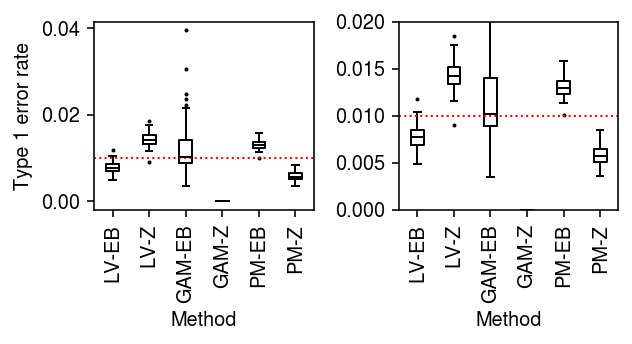
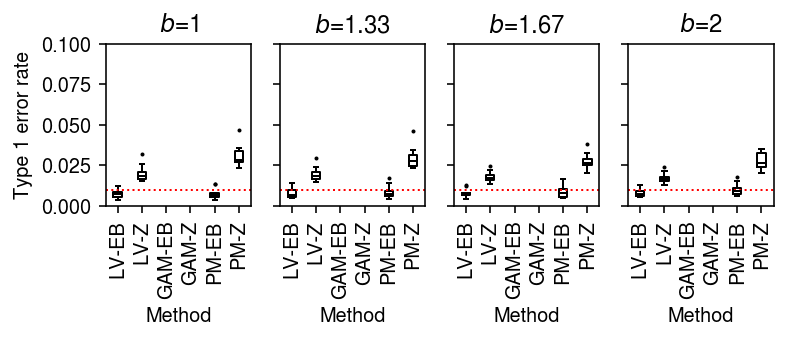
Look at anticonservative behavior of z-test

Changed region(s): [[0.0, 0.0294, 0.9921, 0.9706], [0.6013, 0.9118, 0.7215, 0.9706], [0.6313, 0.2647, 0.6614, 0.2941]]

diff --git a/docs/voom.html b/docs/voom.html
@@ -1,7 +1,7 @@
 <!DOCTYPE html>
 <html lang="en">
 <head>
-<!-- 2020-06-26 Fri 17:01 -->
+<!-- 2020-06-27 Sat 03:45 -->
 <meta charset="utf-8">
 <meta name="viewport" content="width=device-width, initial-scale=1">
 <title>An improved voom transform for scRNA-seq data</title>
@@ -925,7 +925,7 @@ Implement a simplified
 <span class="org-doc">  """</span>
   <span class="org-variable-name">result</span> = []
   <span class="org-keyword">for</span> i <span class="org-keyword">in</span> <span class="org-builtin">range</span>(n_trials):
-    <span class="org-variable-name">x</span>, <span class="org-variable-name">onehot</span>, <span class="org-variable-name">design</span>, <span class="org-variable-name">b</span> = simulate_study(dat, g, b=b, n_donors=1, n_cells=n_cells, min_cells=min_cells, seed=i)
+    <span class="org-variable-name">x</span>, <span class="org-variable-name">onehot</span>, <span class="org-variable-name">design</span>, <span class="org-variable-name">lfc</span> = simulate_study(dat, g, b=b, n_donors=1, n_cells=n_cells, min_cells=min_cells, seed=i)
     <span class="org-keyword">if</span> ss.isspmatrix(x.X):
       <span class="org-variable-name">x</span> = x.X.A
     <span class="org-keyword">else</span>:
@@ -939,14 +939,14 @@ Implement a simplified
       <span class="org-variable-name">fit</span> = limma.eBayes(fit)
       <span class="org-keyword">for</span> fdr_method <span class="org-keyword">in</span> (<span class="org-string">'fdr_bh'</span>, <span class="org-string">'lfsr'</span>):
         <span class="org-variable-name">score</span> = <span class="org-builtin">globals</span>()[f<span class="org-string">'estimate_{fdr_method}'</span>](fit)
-        <span class="org-variable-name">fdp</span> = ((score &lt; fdr) &amp; np.isclose(b, 0)).mean()
-        <span class="org-variable-name">power</span> = (score[~np.isclose(b, 0)] &lt; fdr).mean()
+        <span class="org-variable-name">fdp</span> = ((score &lt; fdr) &amp; np.isclose(lfc, 0)).mean()
+        <span class="org-variable-name">power</span> = (score[~np.isclose(lfc, 0)] &lt; fdr).mean()
         result.append((fdr, n_cells, method, fdr_method, i, fdp, power))
     <span class="org-keyword">for</span> method <span class="org-keyword">in</span> (<span class="org-string">'point'</span>,):
       <span class="org-variable-name">fit</span> = <span class="org-builtin">globals</span>()[f<span class="org-string">'estimate_{method}'</span>](x, onehot, design=design, batch_size=64, num_epochs=num_epochs)
       <span class="org-variable-name">score</span> = rpy2.robjects.r[<span class="org-string">'p.adjust'</span>](fit[<span class="org-string">'p'</span>], method=<span class="org-string">'BH'</span>)
-      <span class="org-variable-name">fdp</span> = ((score &lt; fdr) &amp; np.isclose(b, 0)).mean()
-      <span class="org-variable-name">power</span> = (score[~np.isclose(b, 0)] &lt; fdr).mean()
+      <span class="org-variable-name">fdp</span> = ((score &lt; fdr) &amp; np.isclose(lfc, 0)).mean()
+      <span class="org-variable-name">power</span> = (score[~np.isclose(lfc, 0)] &lt; fdr).mean()
       result.append((fdr, n_cells, method, <span class="org-string">'fdr_bh'</span>, i, fdp, power))
   <span class="org-variable-name">result</span> = pd.DataFrame(result, columns=[<span class="org-string">'fdr'</span>, <span class="org-string">'n_cells'</span>, <span class="org-string">'method'</span>, <span class="org-string">'fdr_method'</span>, <span class="org-string">'trial'</span>, <span class="org-string">'fdp'</span>, <span class="org-string">'power'</span>])
   <span class="org-keyword">return</span> result
@@ -968,7 +968,7 @@ Implement a simplified
   <span class="org-keyword">assert</span> n_donors &gt; 1
   <span class="org-variable-name">result</span> = []
   <span class="org-keyword">for</span> i <span class="org-keyword">in</span> <span class="org-builtin">range</span>(n_trials):
-    <span class="org-variable-name">x</span>, <span class="org-variable-name">onehot</span>, <span class="org-variable-name">design</span>, <span class="org-variable-name">b</span> = simulate_study(dat, g, b=b, n_donors=n_donors, n_cells=n_cells, min_cells=min_cells, seed=i)
+    <span class="org-variable-name">x</span>, <span class="org-variable-name">onehot</span>, <span class="org-variable-name">design</span>, <span class="org-variable-name">lfc</span> = simulate_study(dat, g, b=b, n_donors=n_donors, n_cells=n_cells, min_cells=min_cells, seed=i)
     <span class="org-keyword">if</span> ss.isspmatrix(x.X):
       <span class="org-variable-name">x</span> = x.X.A
     <span class="org-keyword">else</span>:
@@ -982,11 +982,23 @@ Implement a simplified
       <span class="org-variable-name">fit</span> = limma.eBayes(fit)
       <span class="org-keyword">for</span> fdr_method <span class="org-keyword">in</span> (<span class="org-string">'fdr_bh'</span>, <span class="org-string">'lfsr'</span>):
         <span class="org-variable-name">score</span> = <span class="org-builtin">globals</span>()[f<span class="org-string">'estimate_{fdr_method}'</span>](fit)
-        <span class="org-variable-name">fdp</span> = ((score &lt; fdr) &amp; np.isclose(b, 0)).mean()
-        <span class="org-variable-name">power</span> = (score[~np.isclose(b, 0)] &lt; fdr).mean()
+        <span class="org-variable-name">fdp</span> = ((score &lt; fdr) &amp; np.isclose(lfc, 0)).mean()
+        <span class="org-variable-name">power</span> = (score[~np.isclose(lfc, 0)] &lt; fdr).mean()
         result.append((fdr, n_donors, n_cells, method, fdr_method, i, fdp, power))
   <span class="org-variable-name">result</span> = pd.DataFrame(result, columns=[<span class="org-string">'fdr'</span>, <span class="org-string">'n_donors'</span>, <span class="org-string">'n_cells'</span>, <span class="org-string">'method'</span>, <span class="org-string">'fdr_method'</span>, <span class="org-string">'trial'</span>, <span class="org-string">'fdp'</span>, <span class="org-string">'power'</span>])
   <span class="org-keyword">return</span> result
+</pre>
+</div>
+
+<p>
+To generate null data, randomly sample cells from a homogeneous population,
+and randomly assign labels. Use
+<a href="https://support.10xgenomics.com/single-cell-gene-expression/datasets/3.0.0/pbmc_10k_v3">10X
+v3 PBMC data</a>, which has more molecules observed per sample on average.
+</p>
+
+<div class="org-src-container">
+<pre class="src src-ipython"><span class="org-variable-name">dat</span> = anndata.read_h5ad(<span class="org-string">'/scratch/midway2/aksarkar/modes/10k_pbmc_v3.h5ad'</span>)
 </pre>
 </div>
 </div>
@@ -1331,16 +1343,8 @@ As a sanity check, use bulk RNA-seq data from GTEx v6 lung.
 <h3 id="org05839be">Type 1 error rate (single cells as units)</h3>
 <div class="outline-text-3" id="text-org05839be">
 <p>
-To generate null data, randomly sample cells from a homogeneous population,
-and randomly assign labels. Use
-<a href="https://support.10xgenomics.com/single-cell-gene-expression/datasets/3.0.0/pbmc_10k_v3">10X
-v3 PBMC data</a>, which has more molecules observed per sample on average.
+Simulate null data, varying the number of cells per group.
 </p>
-
-<div class="org-src-container">
-<pre class="src src-ipython"><span class="org-variable-name">dat</span> = anndata.read_h5ad(<span class="org-string">'/scratch/midway2/aksarkar/modes/10k_pbmc_v3.h5ad'</span>)
-</pre>
-</div>
 
 <div class="org-src-container">
 <pre class="src src-ipython"><span class="org-variable-name">result</span> = pd.concat(
@@ -1348,6 +1352,10 @@ v3 PBMC data</a>, which has more molecules observed per sample on average.
   <span class="org-keyword">for</span> n_cells <span class="org-keyword">in</span> (10, 100, 1000))
 </pre>
 </div>
+
+<p>
+Plot the distribution of Type 1 errors in each trial.
+</p>
 
 <div class="org-src-container">
 <pre class="src src-ipython">plt.clf()
@@ -1443,9 +1451,9 @@ fig.tight_layout()
 </div>
 </div>
 
-<div id="outline-container-orga33496c" class="outline-4">
-<h4 id="orga33496c">Unequal size factors</h4>
-<div class="outline-text-4" id="text-orga33496c">
+<div id="outline-container-org4cbfade" class="outline-4">
+<h4 id="org4cbfade">Unequal size factors</h4>
+<div class="outline-text-4" id="text-org4cbfade">
 <p>
 To generate single cells with unequal size factors, combine simulated
 doublets from sorted cells in one group.
@@ -1624,19 +1632,31 @@ plt.tight_layout()
 </div>
 </div>
 
-<div id="outline-container-orgd147d31" class="outline-4">
-<h4 id="orgd147d31">Pathological example</h4>
-<div class="outline-text-4" id="text-orgd147d31">
+<div id="outline-container-orgd9329ed" class="outline-4">
+<h4 id="orgd9329ed">Anti-conservative \(z\)-test</h4>
+<div class="outline-text-4" id="text-orgd9329ed">
 <div class="org-src-container">
-<pre class="src src-ipython"><span class="org-variable-name">x</span>, <span class="org-variable-name">onehot</span> = simulate_null(dat, n_donors=2, n_cells=400, min_counts=30, seed=2)
-<span class="org-variable-name">fit</span> = estimate_point(x.A, onehot.A)
+<pre class="src src-ipython"><span class="org-variable-name">x</span>, <span class="org-variable-name">onehot</span> = simulate_null(dat, n_donors=1, n_cells=100, min_cells=100, seed=3)
+<span class="org-variable-name">y</span> = x.X.A.copy()
+<span class="org-comment-delimiter"># </span><span class="org-comment">for j in range(y.shape[1]):</span>
+<span class="org-comment-delimiter">#   </span><span class="org-comment">temp = y[:,j].copy()</span>
+<span class="org-comment-delimiter">#   </span><span class="org-comment">np.random.shuffle(temp)</span>
+<span class="org-comment-delimiter">#   </span><span class="org-comment">y[:,j] = temp</span>
+<span class="org-variable-name">theta</span> = np.log(onehot.T @ y) - np.log(onehot.T @ y.<span class="org-builtin">sum</span>(axis=1, keepdims=<span class="org-constant">True</span>))
+<span class="org-variable-name">bhat</span> = theta[0] - theta[1]
+<span class="org-variable-name">V</span> = 1 / (onehot.T @ y)
+<span class="org-variable-name">se</span> = np.sqrt(V.<span class="org-builtin">sum</span>(axis=0))
+<span class="org-variable-name">z</span> = bhat / se
+<span class="org-variable-name">p</span> = st.norm().sf(<span class="org-builtin">abs</span>(z))
 </pre>
 </div>
 
 <div class="org-src-container">
-<pre class="src src-ipython">plt.clf()
+<pre class="src src-ipython"><span class="org-variable-name">grid</span> = np.linspace(-5, 5, 1000)
+plt.clf()
 plt.gcf().set_size_inches(3, 3)
-plt.hist(fit[<span class="org-string">'bhat'</span>] / fit[<span class="org-string">'se'</span>], bins=20, density=<span class="org-constant">True</span>, color=<span class="org-string">'0.7'</span>)
+plt.hist(bhat / se, bins=21, density=<span class="org-constant">True</span>, color=<span class="org-string">'0.7'</span>)
+plt.plot(grid, st.norm().pdf(grid), lw=1, c=<span class="org-string">'k'</span>)
 plt.xlabel(<span class="org-string">'$z$-score'</span>)
 plt.ylabel(<span class="org-string">'Density'</span>)
 plt.tight_layout()
@@ -1656,7 +1676,7 @@ plt.clf()
 plt.gcf().set_size_inches(3, 3)
 plt.xscale(<span class="org-string">'log'</span>)
 plt.yscale(<span class="org-string">'log'</span>)
-<span class="org-keyword">for</span> i, (F, label) <span class="org-keyword">in</span> <span class="org-builtin">enumerate</span>(<span class="org-builtin">zip</span>([st.norm(), st.t(1, scale=0.1)], [<span class="org-string">'N(0, 1)'</span>, <span class="org-string">'$t_4$'</span>])):
+<span class="org-keyword">for</span> i, (F, label) <span class="org-keyword">in</span> <span class="org-builtin">enumerate</span>(<span class="org-builtin">zip</span>([st.norm()], [<span class="org-string">'N(0, 1)'</span>])):
   plt.plot(np.linspace(0, 1, fit.shape[0] + 1)[1:], np.sort(F.cdf(fit[<span class="org-string">'bhat'</span>] / fit[<span class="org-string">'se'</span>])), lw=1, c=cm(i), label=label)
 plt.plot(lim, lim, lw=1, ls=<span class="org-string">':'</span>, c=<span class="org-string">'k'</span>)
 plt.xlim(lim)
@@ -1671,6 +1691,53 @@ plt.tight_layout()
 
 <div class="figure">
 <p><img src="figure/voom.org/point-example.png" alt="point-example.png">
+</p>
+</div>
+
+<p>
+Check whether the SE is calibrated.
+</p>
+
+<div class="org-src-container">
+<pre class="src src-ipython"><span class="org-variable-name">n_trials</span> = 50
+<span class="org-variable-name">n_bootstraps</span> = 400
+<span class="org-variable-name">n_cells</span> = 100
+<span class="org-variable-name">s</span> = 1e4
+<span class="org-variable-name">result</span> = []
+<span class="org-keyword">for</span> trial <span class="org-keyword">in</span> <span class="org-builtin">range</span>(n_trials):
+  <span class="org-keyword">for</span> theta <span class="org-keyword">in</span> np.arange(-12, -2, 1):
+    <span class="org-variable-name">x</span> = st.poisson(s * np.exp(theta)).rvs(size=n_cells)
+    <span class="org-variable-name">thetahat</span> = np.log(x.<span class="org-builtin">sum</span>()) - np.log(n_cells * s)
+    <span class="org-variable-name">se</span> = np.sqrt(1 / x.<span class="org-builtin">sum</span>())
+    <span class="org-variable-name">bootstraps</span> = []
+    <span class="org-keyword">for</span> b <span class="org-keyword">in</span> <span class="org-builtin">range</span>(n_bootstraps):
+      <span class="org-variable-name">x</span> = st.poisson(s * np.exp(theta)).rvs(size=n_cells)
+      bootstraps.append(np.log(x.<span class="org-builtin">sum</span>()) - np.log(n_cells * s))
+    <span class="org-variable-name">se_b</span> = np.array(bootstraps).std()
+    result.append([theta, trial, thetahat, se, se_b])
+<span class="org-variable-name">result</span> = pd.DataFrame(result, columns=[<span class="org-string">'theta'</span>, <span class="org-string">'trial'</span>, <span class="org-string">'thetahat'</span>, <span class="org-string">'se'</span>, <span class="org-string">'se_b'</span>])
+</pre>
+</div>
+
+<div class="org-src-container">
+<pre class="src src-ipython">plt.clf()
+plt.gcf().set_size_inches(2.5, 2.5)
+plt.xscale(<span class="org-string">'log'</span>)
+plt.yscale(<span class="org-string">'log'</span>)
+plt.scatter(result[<span class="org-string">'se'</span>], result[<span class="org-string">'se_b'</span>], s=1, c=<span class="org-string">'k'</span>)
+<span class="org-variable-name">lim</span> = [1e-3, 1.5]
+plt.plot(lim, lim, lw=1, ls=<span class="org-string">':'</span>, c=<span class="org-string">'r'</span>)
+plt.xlim(lim)
+plt.ylim(lim)
+plt.xlabel(<span class="org-string">'Analytic SE'</span>)
+plt.ylabel(<span class="org-string">'Bootstrap SE'</span>)
+plt.tight_layout()
+</pre>
+</div>
+
+
+<div class="figure">
+<p><img src="figure/voom.org/se.png" alt="se.png">
 </p>
 </div>
 </div>
@@ -1728,31 +1795,25 @@ to donors, then randomly assign donors to groups.
 </p>
 
 <div class="org-src-container">
-<pre class="src src-ipython"><span class="org-variable-name">dat</span> = anndata.read_h5ad(<span class="org-string">'/scratch/midway2/aksarkar/ideas/zheng-10-way.h5ad'</span>)
-<span class="org-variable-name">b_cells</span> = dat[dat.obs[<span class="org-string">'cell_type'</span>] == <span class="org-string">'b_cells'</span>]
-</pre>
-</div>
-
-<div class="org-src-container">
-<pre class="src src-ipython"><span class="org-variable-name">result</span> = evaluate_type1_by_donor(b_cells, min_counts=10, n_trials=50)
+<pre class="src src-ipython"><span class="org-variable-name">result</span> = pd.concat(
+  evaluate_type1_by_donor(dat, b=b, n_donors=4, n_cells=100, min_cells=100, n_trials=10)
+  <span class="org-keyword">for</span> b <span class="org-keyword">in</span> np.log(np.linspace(1, 2, 4)))
 </pre>
 </div>
 
 <div class="org-src-container">
 <pre class="src src-ipython">plt.clf()
-<span class="org-variable-name">fig</span>, <span class="org-variable-name">ax</span> = plt.subplots(1, 2)
-fig.set_size_inches(4.5, 2.5)
+<span class="org-variable-name">fig</span>, <span class="org-variable-name">ax</span> = plt.subplots(1, 4, sharey=<span class="org-constant">True</span>)
+fig.set_size_inches(5.5, 2.5)
 <span class="org-variable-name">labels</span> = [<span class="org-string">'LV-EB'</span>, <span class="org-string">'LV-Z'</span>, <span class="org-string">'GAM-EB'</span>, <span class="org-string">'GAM-Z'</span>, <span class="org-string">'PM-EB'</span>, <span class="org-string">'PM-Z'</span>]
-<span class="org-keyword">for</span> i, (k, g) <span class="org-keyword">in</span> <span class="org-builtin">enumerate</span>(result.groupby([<span class="org-string">'method'</span>, <span class="org-string">'test'</span>])):
-  ax[0].boxplot(g[<span class="org-string">'fpr'</span>], positions=[i], widths=0.35, medianprops={<span class="org-string">'color'</span>: <span class="org-string">'k'</span>}, flierprops={<span class="org-string">'marker'</span>: <span class="org-string">'.'</span>, <span class="org-string">'markersize'</span>: 2})
-  ax[1].boxplot(g[<span class="org-string">'fpr'</span>], positions=[i], widths=0.35, medianprops={<span class="org-string">'color'</span>: <span class="org-string">'k'</span>}, flierprops={<span class="org-string">'marker'</span>: <span class="org-string">'.'</span>, <span class="org-string">'markersize'</span>: 2})
-ax[1].set_ylim(0, 0.02)
-<span class="org-keyword">for</span> a <span class="org-keyword">in</span> ax:
+<span class="org-keyword">for</span> a, (k, g) <span class="org-keyword">in</span> <span class="org-builtin">zip</span>(ax, result.groupby(<span class="org-string">'b'</span>)):
+  a.boxplot(g.pivot_table(index=[<span class="org-string">'method'</span>, <span class="org-string">'test'</span>], columns=<span class="org-string">'trial'</span>, values=<span class="org-string">'fdp'</span>), widths=0.35, medianprops={<span class="org-string">'color'</span>: <span class="org-string">'k'</span>}, flierprops={<span class="org-string">'marker'</span>: <span class="org-string">'.'</span>, <span class="org-string">'markersize'</span>: 2})
   a.axhline(y=0.01, c=<span class="org-string">'r'</span>, lw=1, ls=<span class="org-string">':'</span>)
-  a.set_xticks(<span class="org-builtin">range</span>(<span class="org-builtin">len</span>(labels)))
   a.set_xticklabels(labels, rotation=90)
+  a.set_title(f<span class="org-string">'$b$={np.exp(k):.3g}'</span>)
   a.set_xlabel(<span class="org-string">'Method'</span>)
 ax[0].set_ylabel(<span class="org-string">'Type 1 error rate'</span>)
+ax[0].set_ylim(0, 0.1)
 fig.tight_layout()
 </pre>
 </div>
@@ -1764,9 +1825,9 @@ fig.tight_layout()
 </div>
 </div>
 
-<div id="outline-container-org4cbfade" class="outline-4">
-<h4 id="org4cbfade">Unequal size factors</h4>
-<div class="outline-text-4" id="text-org4cbfade">
+<div id="outline-container-org726dc6f" class="outline-4">
+<h4 id="org726dc6f">Unequal size factors</h4>
+<div class="outline-text-4" id="text-org726dc6f">
 <p>
 Generate null data with different size factors by assigning different
 numbers of cells to different donors.
@@ -1851,31 +1912,29 @@ plt.tight_layout()
 <p>
 To generate true positives treating donors as units, randomly sample cells
 from a homogeneous population, randomly assign cells to donors, randomly
-assign donors to groups, and then thin all cells assigned to the effect
-group equally.
+assign donors to groups, and then thin effect genes.
 </p>
 
 <div class="org-src-container">
-<pre class="src src-ipython"><span class="org-variable-name">result</span> = []
-<span class="org-keyword">for</span> b <span class="org-keyword">in</span> -np.log(np.linspace(1, 2, 20)):
-  result.append(evaluate_power_by_donor(b_cells, b=b, n_donors=64, n_cells=50, alpha=0.01, n_trials=1))
-<span class="org-variable-name">result</span> = pd.concat(result)
-result.to_csv(<span class="org-string">'/scratch/midway2/aksarkar/singlecell/limma-voom-power-by-donor-40.txt.gz'</span>)
+<pre class="src src-ipython"><span class="org-variable-name">result</span> = pd.concat(
+  evaluate_power_by_donor(dat, g=st.t(scale=0.1, df=1).rvs, n_donors=n_donors, n_cells=50, n_trials=10)
+  <span class="org-keyword">for</span> n_donors <span class="org-keyword">in</span> (4, 16, 64))
 </pre>
 </div>
 
 <div class="org-src-container">
 <pre class="src src-ipython"><span class="org-variable-name">cm</span> = plt.get_cmap(<span class="org-string">'Paired'</span>)
 plt.clf()
-plt.gcf().set_size_inches(3.5, 2.5)
+<span class="org-variable-name">fig</span>, <span class="org-variable-name">ax</span> = plt.subplots(1, 3, sharey=<span class="org-constant">True</span>)
+fig.set_size_inches(5, 2.5)
 <span class="org-variable-name">labels</span> = [<span class="org-string">'LV-EB'</span>, <span class="org-string">'LV-Z'</span>, <span class="org-string">'GAM-EB'</span>, <span class="org-string">'GAM-Z'</span>, <span class="org-string">'PM-EB'</span>, <span class="org-string">'PM-Z'</span>]
-<span class="org-keyword">for</span> i, (k, g) <span class="org-keyword">in</span> <span class="org-builtin">enumerate</span>(result.groupby([<span class="org-string">'method'</span>, <span class="org-string">'test'</span>])):
-  plt.plot(np.exp(-g[<span class="org-string">'b'</span>]), g[<span class="org-string">'tpr'</span>], lw=1, c=cm(i), marker=<span class="org-string">'.'</span>, ms=4, label=labels[i])
-plt.legend(frameon=<span class="org-constant">False</span>, loc=<span class="org-string">'center left'</span>, bbox_to_anchor=(1, .5))
-plt.xlabel(<span class="org-string">'True effect size'</span>)
-plt.ylabel(r<span class="org-string">'Power ($\alpha$=0.01)'</span>)
-plt.ylim(0, 1)
-plt.tight_layout()
+<span class="org-keyword">for</span> a, (k, g) <span class="org-keyword">in</span> <span class="org-builtin">zip</span>(ax, result[result[<span class="org-string">'fdr_method'</span>] == <span class="org-string">'fdr_bh'</span>].groupby(<span class="org-string">'n_donors'</span>)):
+  a.boxplot(g.pivot_table(columns=<span class="org-string">'trial'</span>, index=[<span class="org-string">'method'</span>, <span class="org-string">'test'</span>], values=<span class="org-string">'power'</span>), widths=0.4, medianprops={<span class="org-string">'color'</span>: <span class="org-string">'k'</span>}, flierprops={<span class="org-string">'marker'</span>: <span class="org-string">'.'</span>, <span class="org-string">'markersize'</span>: 2})
+  a.set_xticklabels(labels, rotation=90)
+  a.set_xlabel(<span class="org-string">'Method'</span>)
+  a.set_title(f<span class="org-string">'$n$={k}'</span>)
+ax[0].set_ylabel(r<span class="org-string">'Power (FDR 10%)'</span>)
+fig.tight_layout()
 </pre>
 </div>
 
@@ -1890,7 +1949,7 @@ plt.tight_layout()
 </div>
 <div id="postamble" class="status">
 <p class="author">Author: Abhishek Sarkar</p>
-<p class="date">Created: 2020-06-26 Fri 17:01</p>
+<p class="date">Created: 2020-06-27 Sat 03:45</p>
 <p class="validation"><a href="http://validator.w3.org/check?uri=referer">Validate</a></p>
 </div>
 </body>
